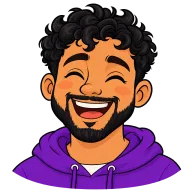
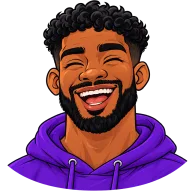
我非常震惊，你画的什么玩意儿，你有调用azure image接口吗，你他妈的画的脸都是一样的，就头发和衣服换一下，糊弄谁呢？！！！！？！？
The four new faces redrawn as four different people. The earlier ones were made with Lina's and Noah's faces as
references and a prompt asking for the same eyes, mouth and proportions, so the model kept their faces and changed only
hair and clothes. Now the style sample is the only reference for each calm face, each face is described on its own
(shape, eyes, nose, mouth, jaw, age) and the references' faces are excluded; laugh and sulk come from the person's own
calm face. Sources and prompts in .intentfold/tmp/SKATGO-167/faces3/.

diff --git a/.intentfold/charter/ui.md b/.intentfold/charter/ui.md
@@ -499,8 +499,8 @@ Recurring patterns — reuse them rather than inventing a neighbour:
   "Avatare" — "Avatare von Lina und Noah am Tisch", on by default (「配置里要加上一个配置……默认是开的」), under the table
   talk's; off, the table stays exactly where it is. Two more sets (SKATGO-167, the human: 「再弄两套头像，一男一女，风格不同，然后
   设置页面可以看着头像选桌上的头像，名字暂时可以不变，可以男明用女头像」, then 「画风必须一致」): four more people, two women and two men,
-  in Lina's and Noah's own flat sticker style (no older woman: 「不要老奶奶，要年轻黑发性感女」; a blonde office lady of about 35: 「fringe那个改为35岁左右的金发的office lady」), made as they were (Azure `gpt-image-2`, the style sample and Lina and Noah
-  as references, three expressions each, 192px WebP, `AVATARS` in `face.ts`). Under the switch, each seat's name over a row of all six
+  in Lina's and Noah's own flat sticker style (no older woman: 「不要老奶奶，要年轻黑发性感女」; a blonde office lady of about 35: 「fringe那个改为35岁左右的金发的office lady」), made as they were (Azure `gpt-image-2`; the style sample the only reference for the
+  calm face, each person's face described on its own — 「你他妈的画的脸都是一样的」 — then the calm face for the other two; three expressions each, 192px WebP, `AVATARS` in `face.ts`). Under the switch, each seat's name over a row of all six
   avatars' calm pictures, the chosen one ringed `color.go` as the card back is; either seat may wear any face, the names
   stay; kept in this browser, Lina and Noah their own by default.
 - **Free play's bid calculator** (SKATGO-157): under the bid's buttons in the drawer, a slate "Game value" / "Spielwert"
